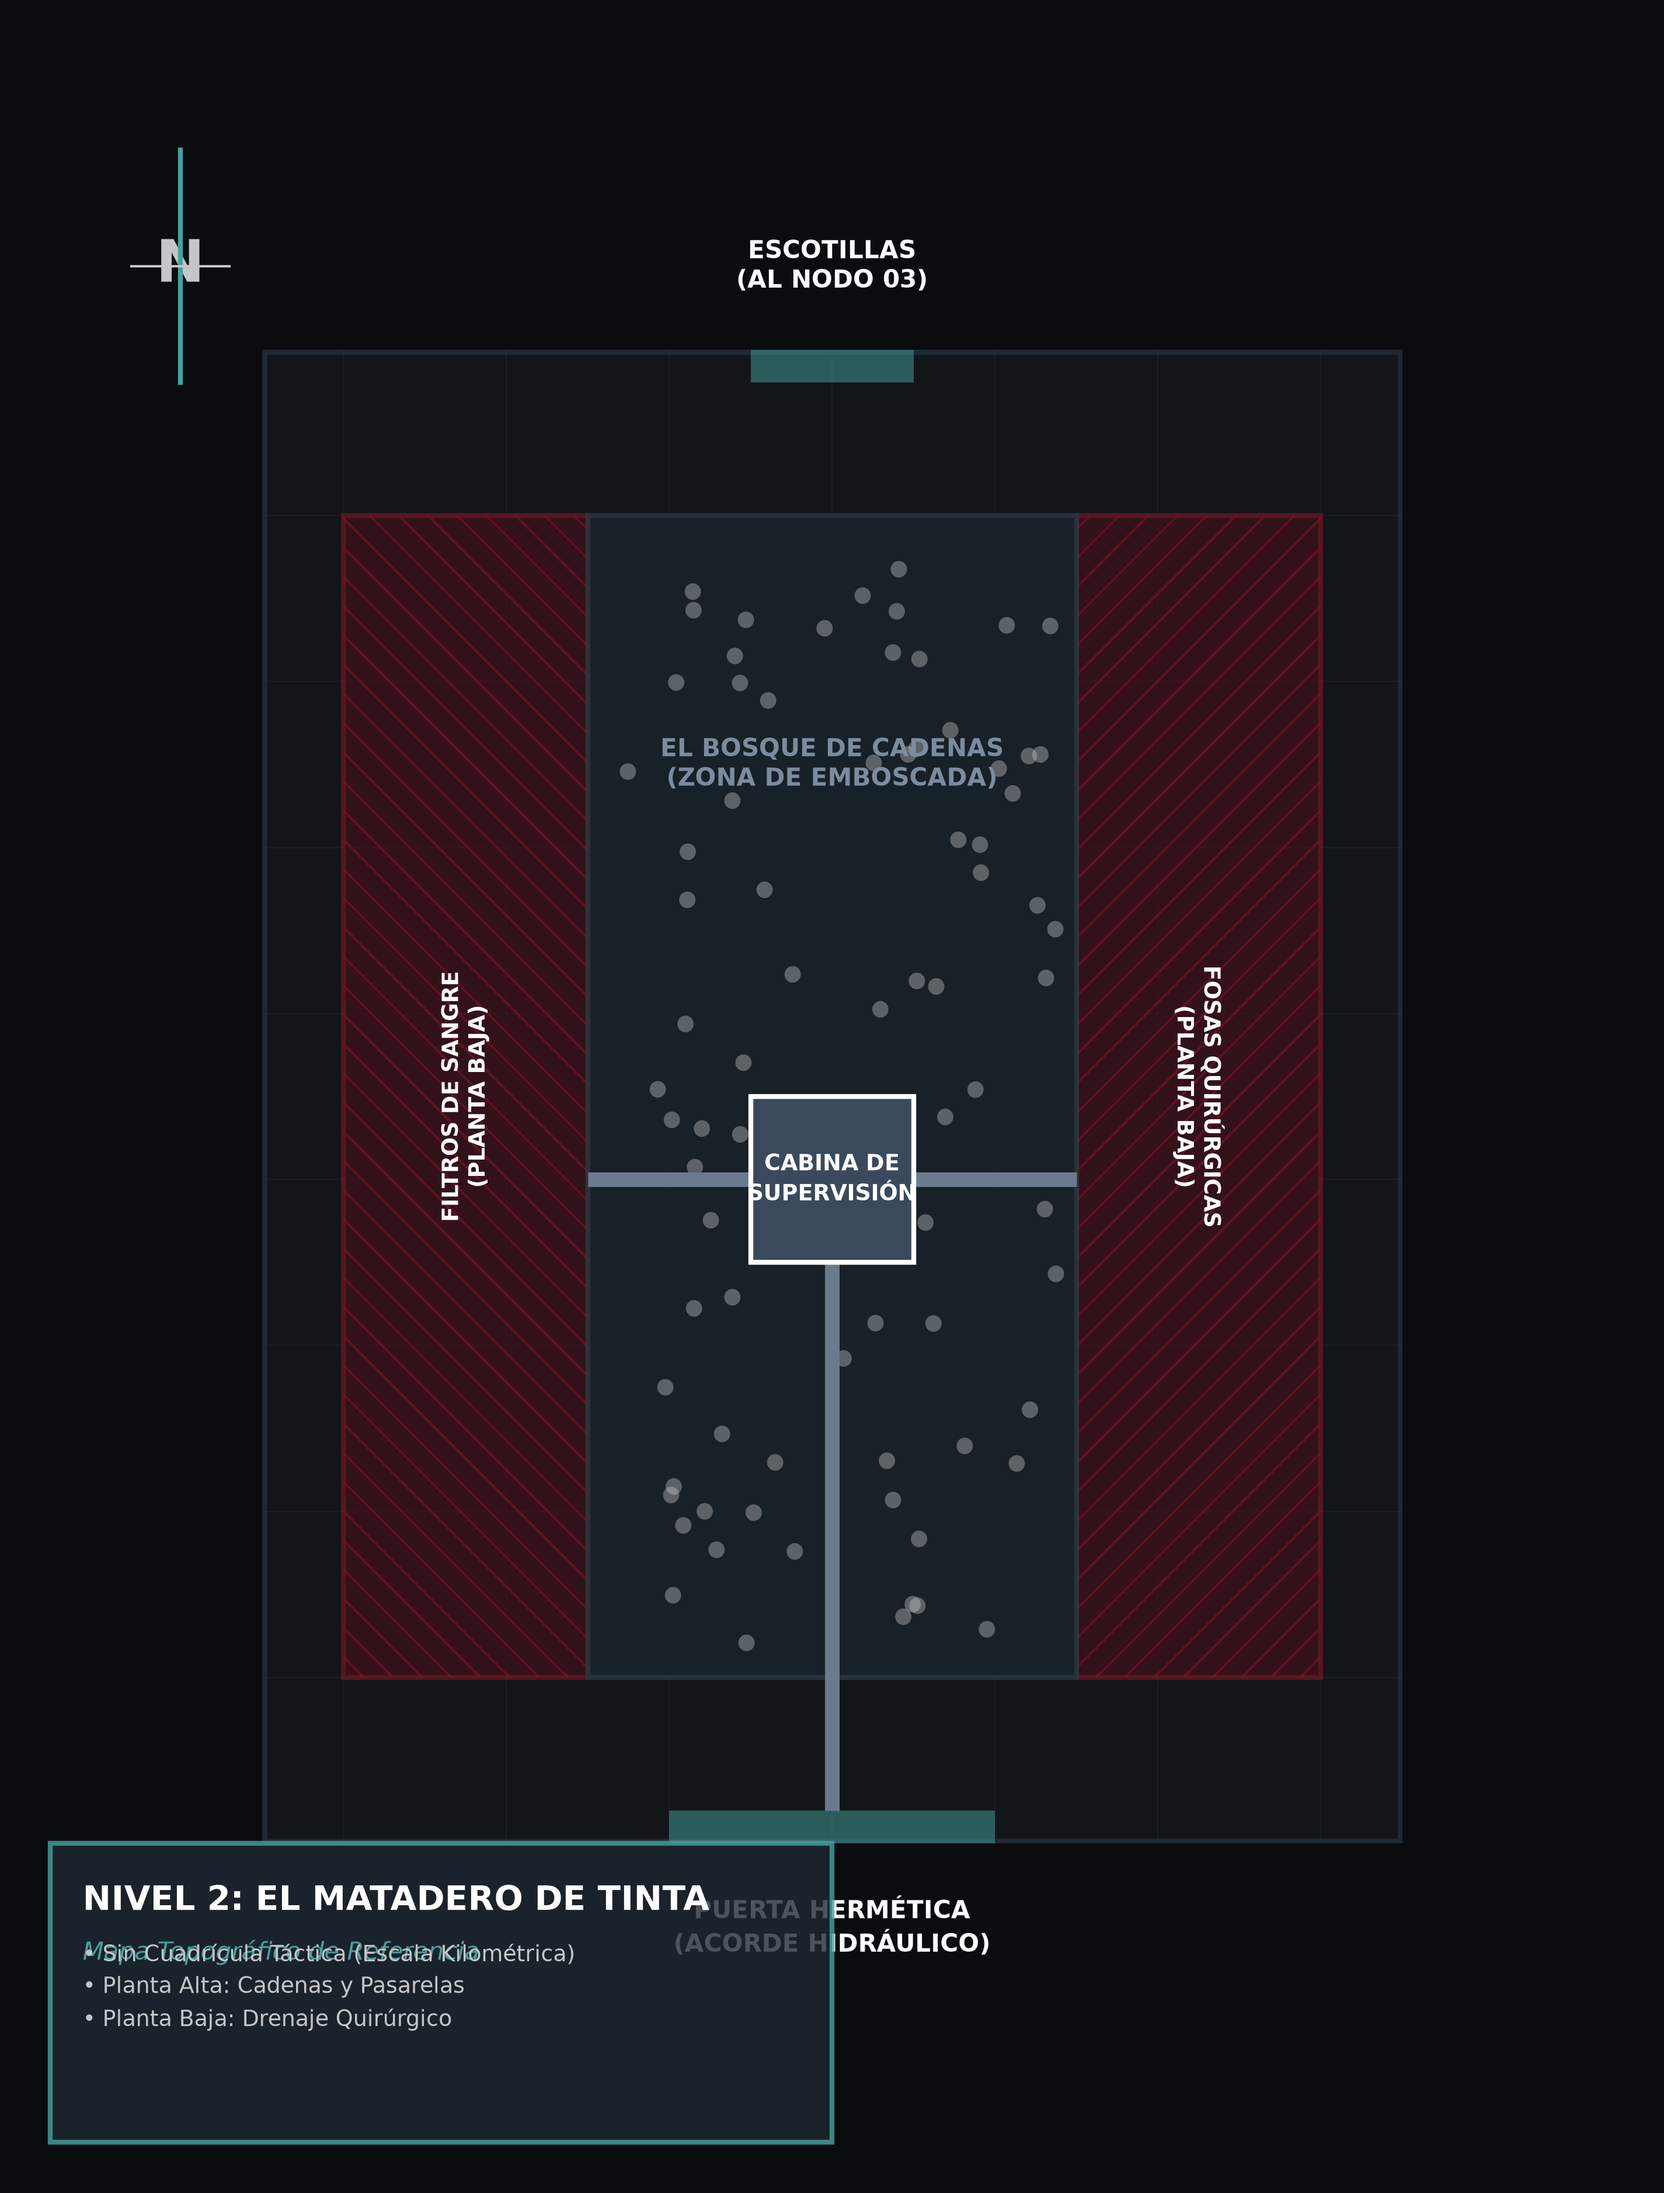
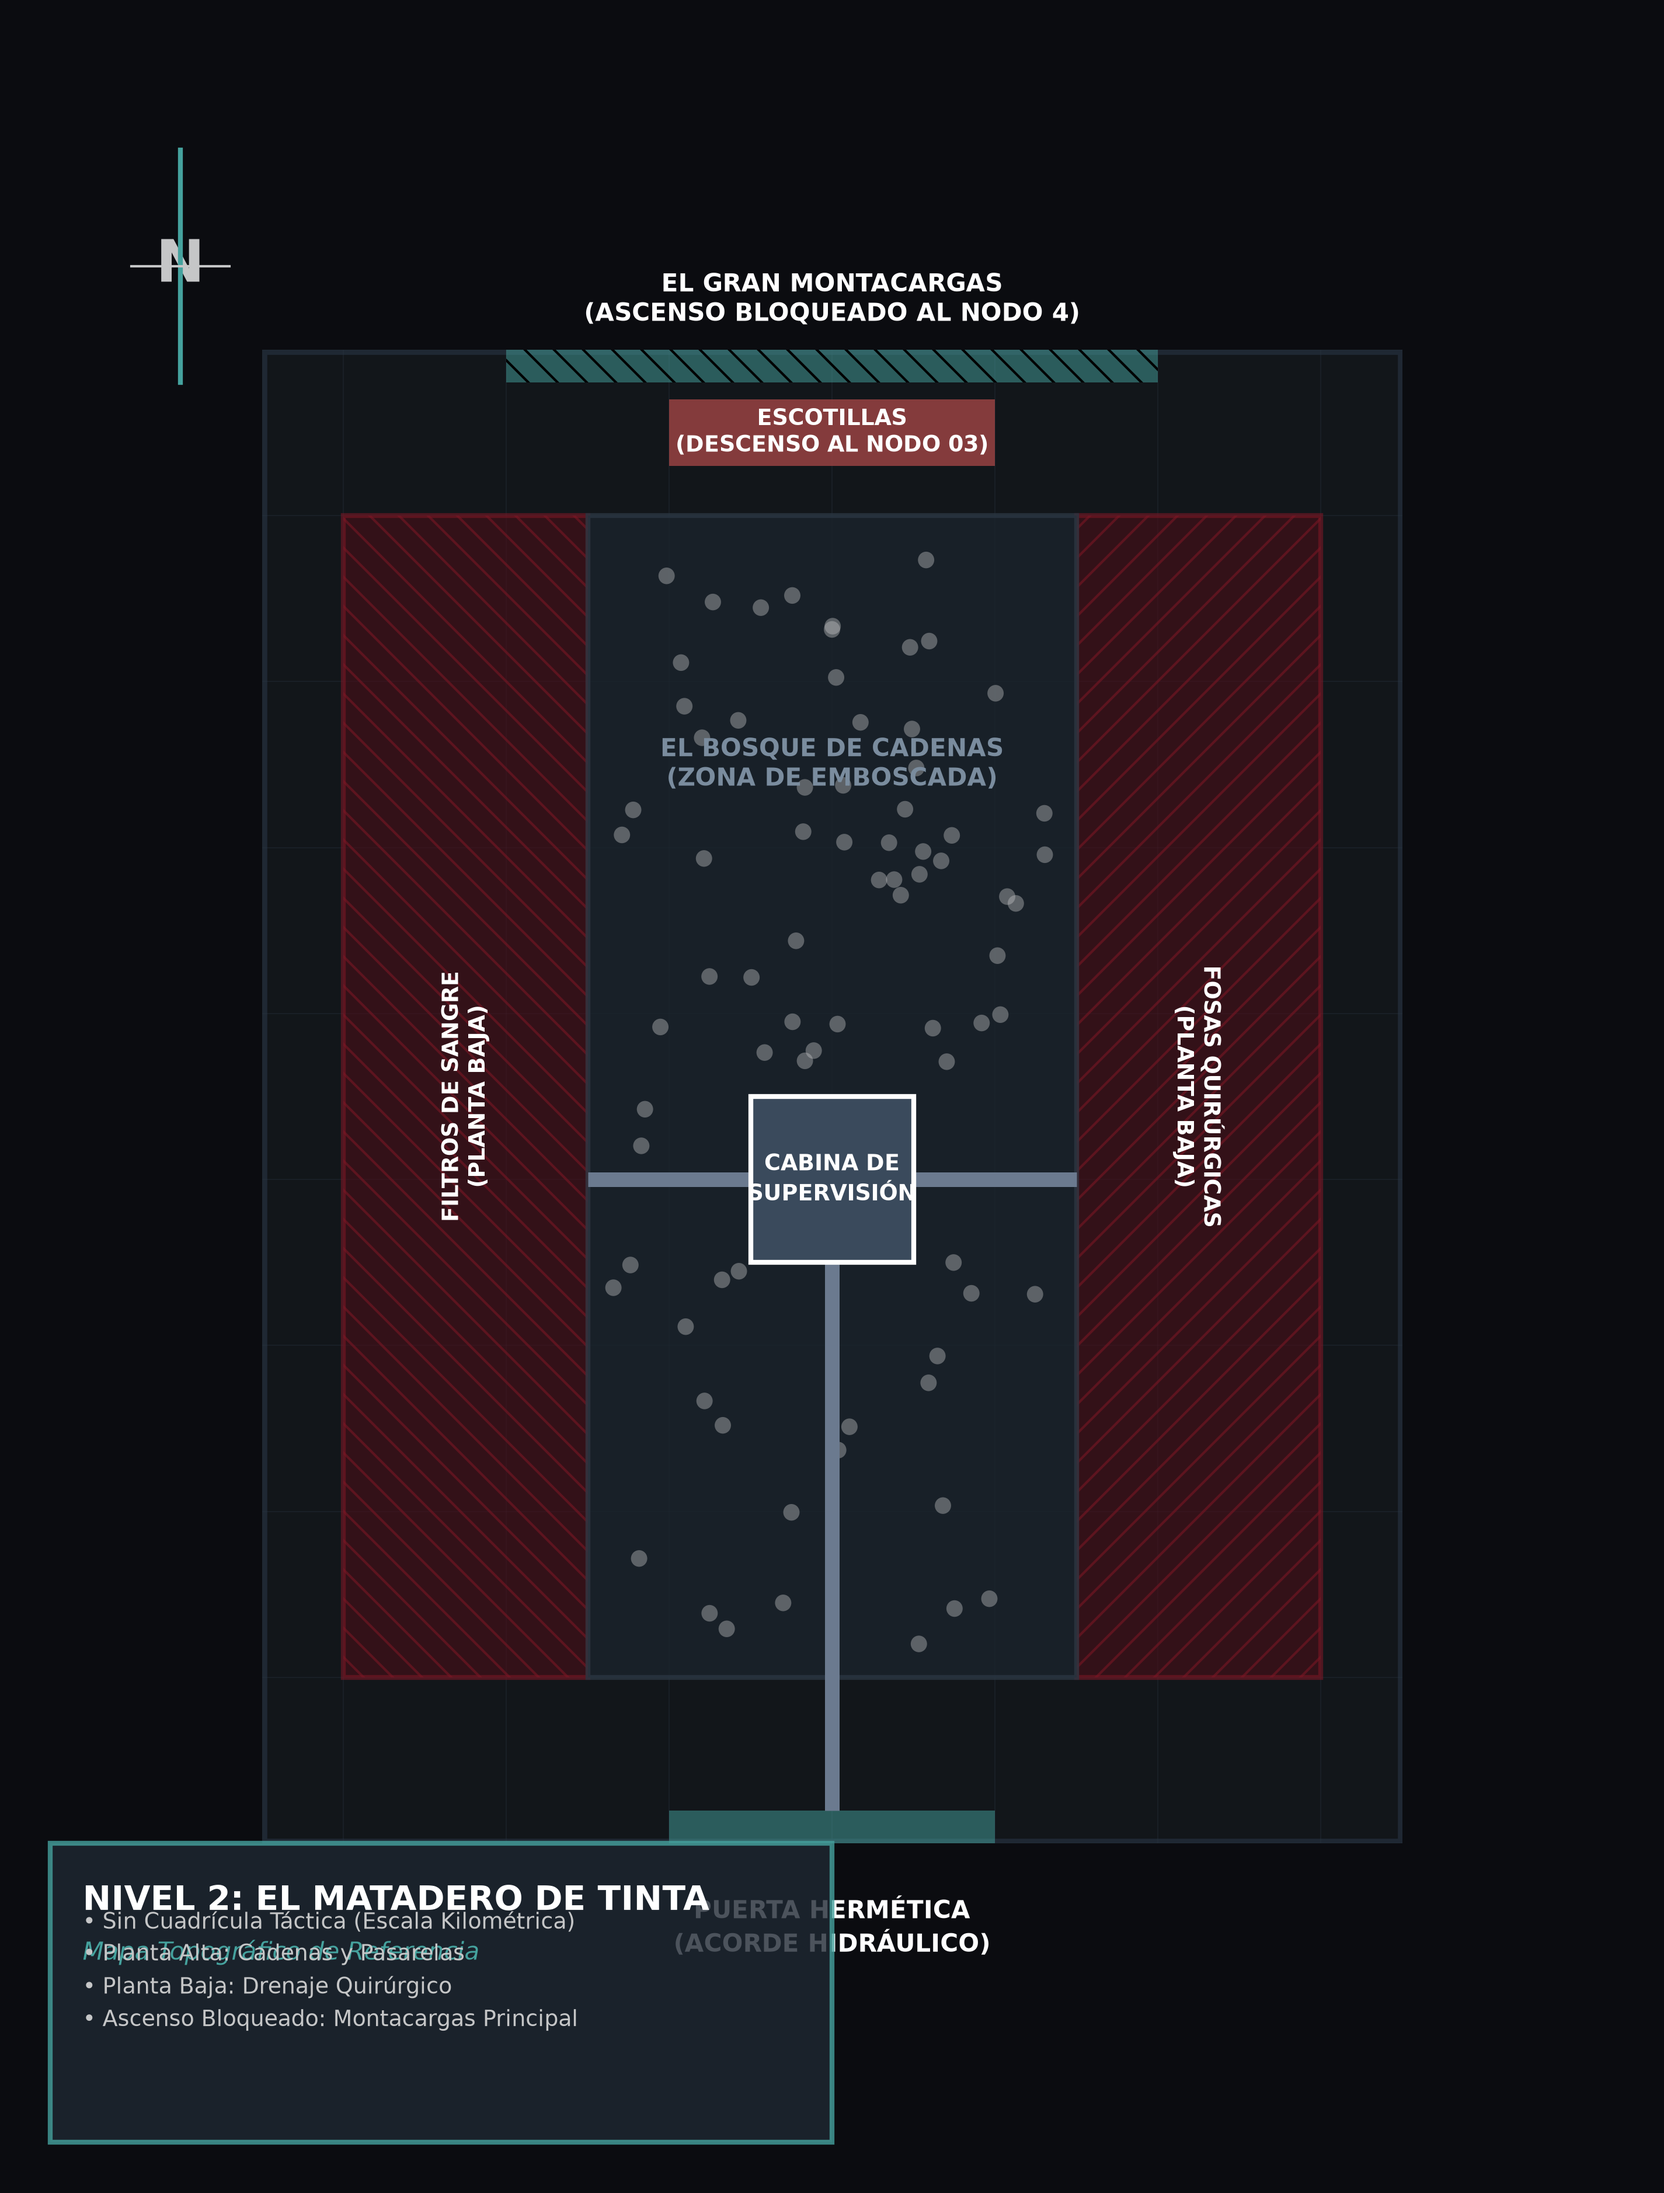
fix: Add Gran Montacargas to mapa_04 to clarify vertical flow

diff --git a/core-books/transcendence-campaign-modules/scripts/generate_map_04.py b/core-books/transcendence-campaign-modules/scripts/generate_map_04.py
@@ -56,10 +56,15 @@ def create_matadero_map(output_path):
     ax.add_patch(entrance)
     ax.text(50, 15, "PUERTA HERMÉTICA\n(ACORDE HIDRÁULICO)", color="#ffffff", ha="center", va="center", fontsize=10, fontweight="bold", zorder=15)
     
-    # Exit (Escotilla hacia Anfiteatros)
-    exit_poly = Polygon([(45, 108), (55, 108), (55, 112), (45, 112)], facecolor=COLOR_HIGHLIGHT, alpha=0.5, zorder=2)
+    # Descent (Escotilla hacia Anfiteatros - Sótano)
+    exit_poly = Polygon([(40, 103), (60, 103), (60, 107), (40, 107)], facecolor="#a24545", alpha=0.8, zorder=2)
     ax.add_patch(exit_poly)
-    ax.text(50, 115, "ESCOTILLAS\n(AL NODO 03)", color="#ffffff", ha="center", va="center", fontsize=10, fontweight="bold", zorder=15)
+    ax.text(50, 105, "ESCOTILLAS\n(DESCENSO AL NODO 03)", color="#ffffff", ha="center", va="center", fontsize=9, fontweight="bold", zorder=15)
+
+    # Ascent (El Gran Montacargas hacia el Distrito Residencial)
+    elevator_poly = Polygon([(30, 108), (70, 108), (70, 118), (30, 118)], facecolor=COLOR_HIGHLIGHT, alpha=0.5, hatch='\\\\', zorder=2)
+    ax.add_patch(elevator_poly)
+    ax.text(50, 113, "EL GRAN MONTACARGAS\n(ASCENSO BLOQUEADO AL NODO 4)", color="#ffffff", ha="center", va="center", fontsize=10, fontweight="bold", zorder=15)
 
     # 4. Fosas Quirúrgicas / Filtros de Sangre (Lower Levels - Planta Baja)
     # Left Side
@@ -109,7 +114,7 @@ def create_matadero_map(output_path):
     
     ax.text(4, 16, "NIVEL 2: EL MATADERO DE TINTA", color="#ffffff", fontsize=14, fontweight="bold", zorder=16)
     ax.text(4, 13, "Mapa Topográfico de Referencia", color=COLOR_HIGHLIGHT, fontsize=10, fontstyle='italic', zorder=16)
-    ax.text(4, 9, "• Sin Cuadrícula Táctica (Escala Kilométrica)\n• Planta Alta: Cadenas y Pasarelas\n• Planta Baja: Drenaje Quirúrgico", color=COLOR_TEXT, fontsize=9, linespacing=1.5, zorder=16)
+    ax.text(4, 9, "• Sin Cuadrícula Táctica (Escala Kilométrica)\n• Planta Alta: Cadenas y Pasarelas\n• Planta Baja: Drenaje Quirúrgico\n• Ascenso Bloqueado: Montacargas Principal", color=COLOR_TEXT, fontsize=9, linespacing=1.5, zorder=16)
 
     # Final touches
     ax.axis('off')
